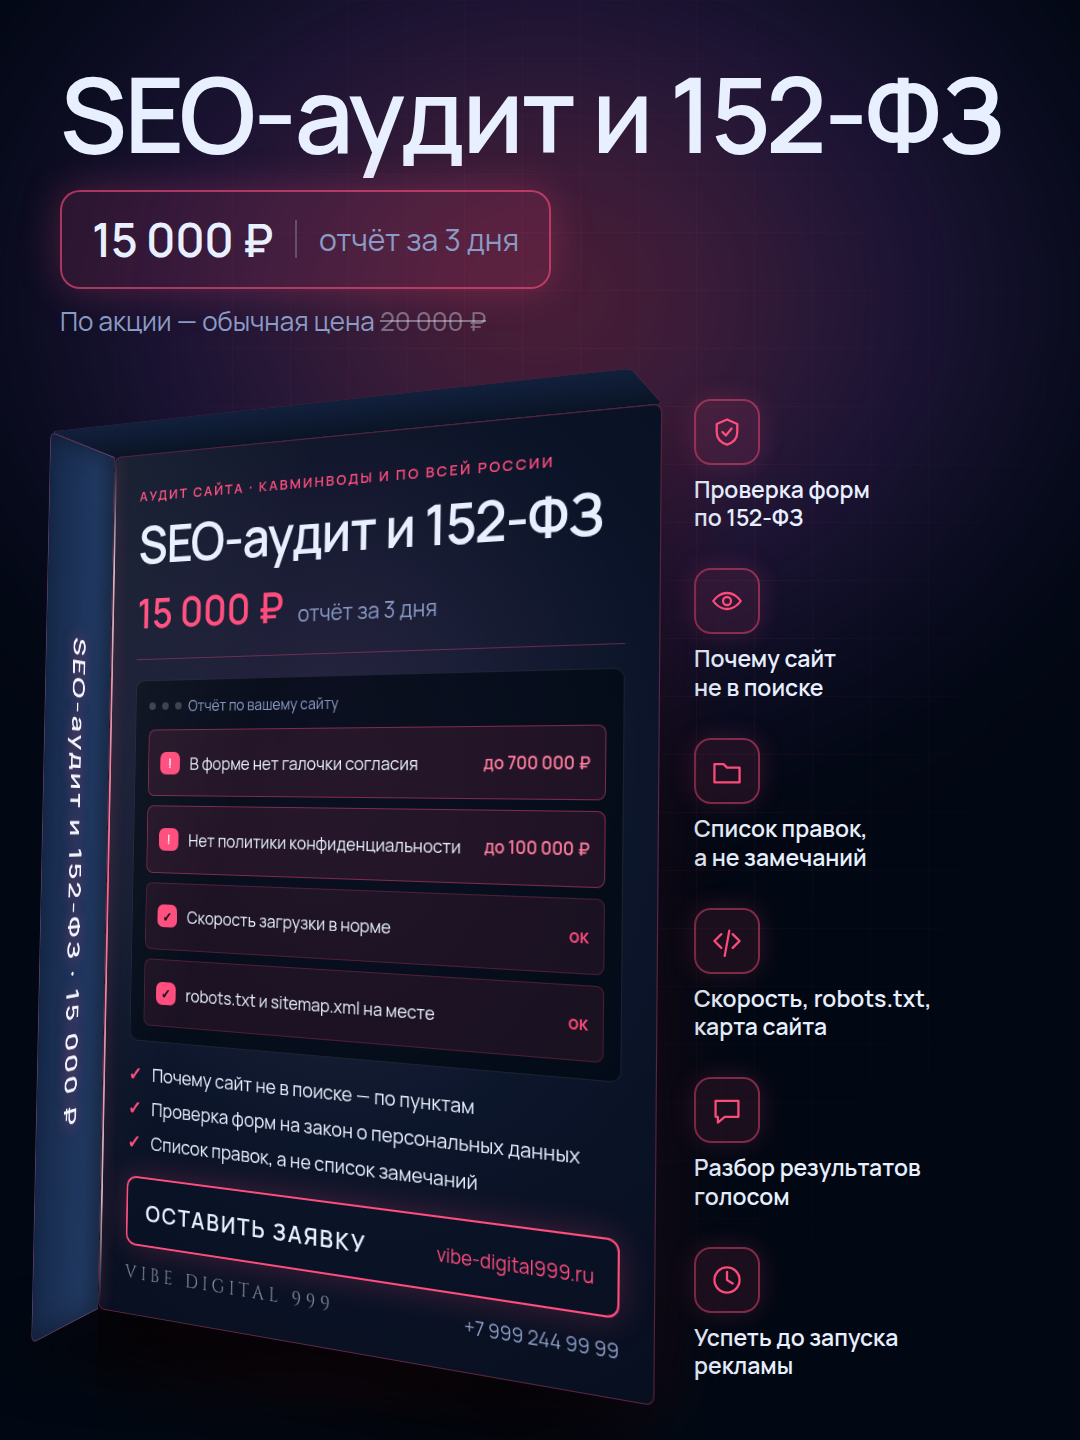
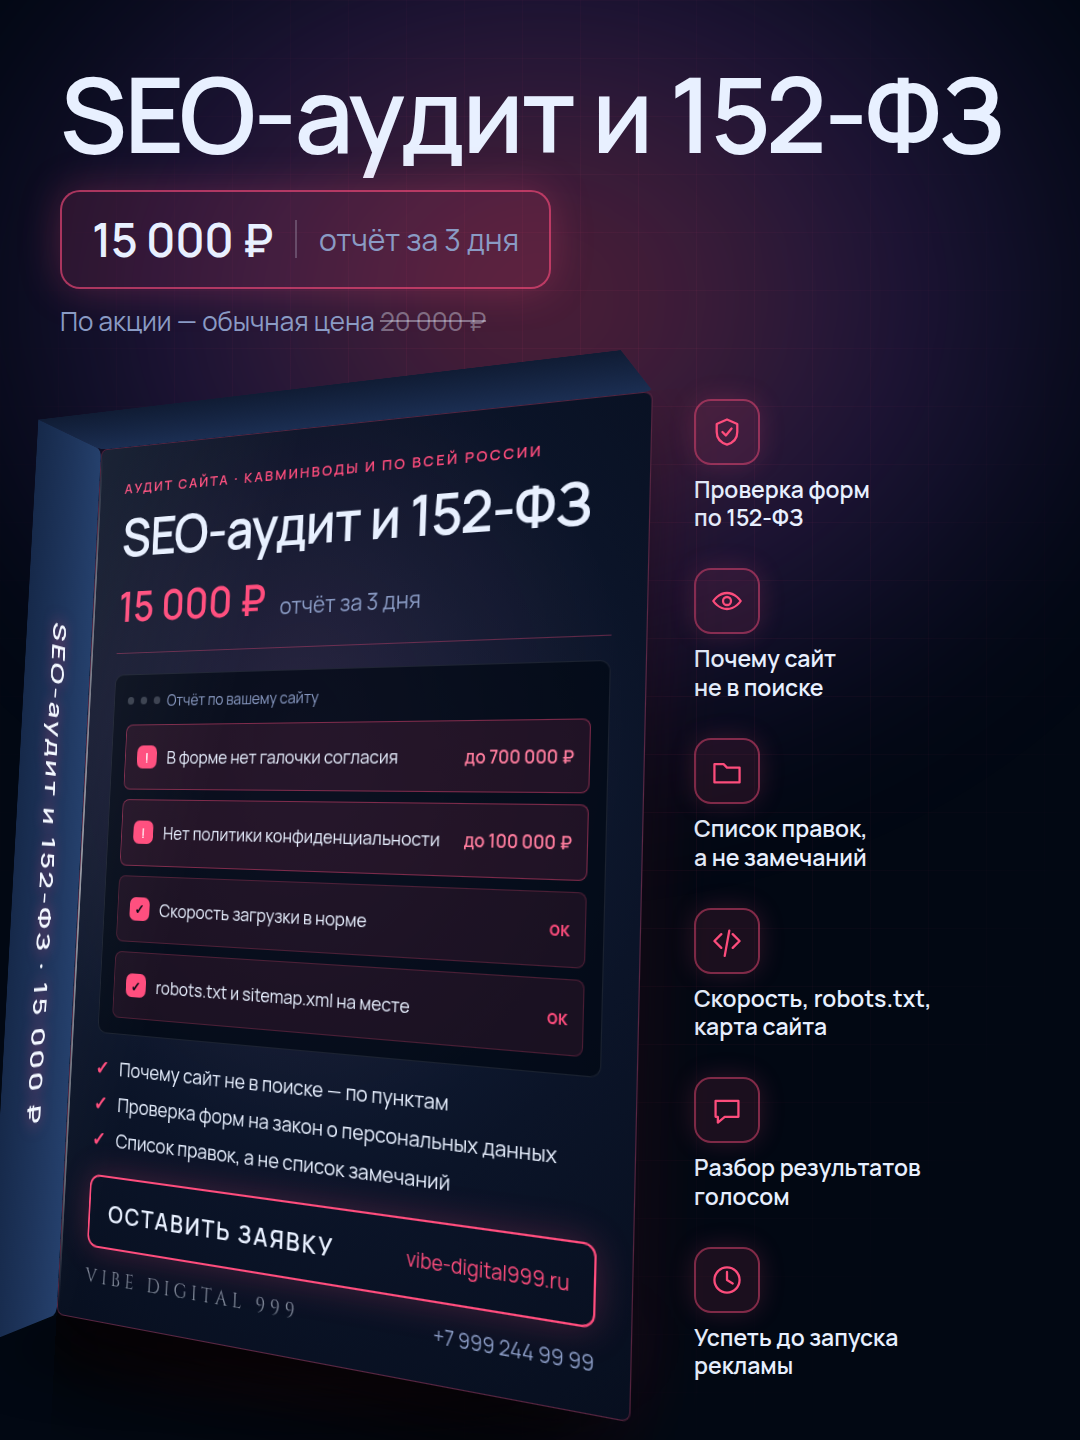
Коробка собрана как тело, а не лист с отогнутым краем
Корешок стоял снаружи лица и отгибался от него — угол выходил тупой,
предмет читался раскрытой обложкой. Теперь каждая грань выдвигается
на половину толщины и поворачивается вокруг своего ребра: лицо +55,
корешок от +55 до -55, угол ровно 90.

Убраны рамка и внутренняя тень на стыке — они давали светящуюся щель
и провал вместо монолита.

Claude-Session: https://claude.ai/code/session_01ELgwZhZjs3zH5Yv9y5TfEh

diff --git a/marketing/karty-korobka.js b/marketing/karty-korobka.js
@@ -219,7 +219,7 @@ ${fontCss}
      занимала 64·sin15° ≈ 16 пикселей, и предмет читался плоской панелью,
      а не коробкой. Владелица сказала прямо — «книга не выходит».
      Теперь 118px при 24°: боковина ≈ 48px, ребро видно. */
-  .scena{--glub:118px}
+  .scena{--glub:110px;--pol:55px}   /* --pol — половина толщины */
 
   /* align-items:stretch, а не center: коробка занимает всю высоту сцены,
      и тень внизу оказывается прямо под дном. При center коробка висела
@@ -228,7 +228,7 @@ ${fontCss}
   .box3d{position:relative;perspective:1500px;perspective-origin:50% 38%;
     /* Отступ сверху — под верхнюю грань: она торчит над лицом на всю
        глубину коробки и без запаса налезала на строчку про акцию. */
-    flex:0 0 600px;display:flex;align-items:stretch;padding:46px 0 40px}
+    flex:0 0 600px;display:flex;align-items:stretch;padding:46px 0 52px}
 
   /* Тень на поверхности. Без неё коробка висит в пустоте: объём есть,
      а стоять ей не на чем — глаз это замечает раньше, чем разбирает
@@ -244,18 +244,30 @@ ${fontCss}
       color-mix(in srgb, var(--acc) 26%, transparent) 0%, transparent 70%);
     filter:blur(34px)}
 
-  .box{position:relative;z-index:1;transform-style:preserve-3d;flex:1;display:flex;
-    transform:rotateY(-24deg) rotateX(2deg)}
+  /* СБОРКА КОРОБКИ. Три грани одного тела, а не лист с отогнутыми
+     краями. Правило простое: каждая грань выдвигается на половину
+     толщины вперёд, и только потом поворачивается вокруг своего ребра.
 
-  /* Верхняя грань — отгибается назад от верхнего ребра лица. Видна
-     узкой полосой, потому что смотрим чуть сверху (perspective-origin
-     выше середины). Именно она превращает «панель с боковиной»
-     в закрытый объём. */
-  .top{position:absolute;left:0;bottom:100%;width:100%;height:var(--glub);
-    transform-origin:bottom center;transform:rotateX(-90deg);
-    background:linear-gradient(180deg,#12203C,#0A1426);
-    border:1px solid color-mix(in srgb, var(--acc) 22%, transparent);
-    border-radius:8px 8px 2px 2px}
+     Первая версия строилась иначе: корешок стоял СНАРУЖИ лица,
+     через right:100%, и отгибался от него, как раскрытая обложка.
+     На картинке это и выглядело вывернутой наизнанку книгой —
+     угол между гранями получался тупой, а не прямой.
+
+     Теперь: лицо на +55px, корешок пристыкован к левому ребру
+     через left:0 с поворотом вокруг левого края и уходит ВГЛУБЬ,
+     от +55 до -55. Верхняя грань так же — от верхнего ребра назад.
+     Угол между гранями ровно 90°, тело замкнуто.
+
+     Осторожно: этот файл — шаблонная строка JS. Обратные кавычки
+     в комментариях к CSS закрывают её и валят разбор. */
+  .box{position:relative;z-index:1;transform-style:preserve-3d;flex:1;display:flex;
+    transform:rotateY(-25deg) rotateX(5deg)}
+
+  .top{position:absolute;left:0;top:0;width:100%;height:var(--glub);
+    transform-origin:top center;
+    transform:translateZ(var(--pol)) rotateX(90deg);
+    background:linear-gradient(180deg,#1B2E52,#101C34);
+    border-radius:8px 8px 0 0}
 
   /* Корешок — боковая грань, отогнутая назад от левого ребра лица.
 
@@ -268,8 +280,9 @@ ${fontCss}
      сдвигом — корешок ложился поперёк передней грани и перечёркивал
      цену. На глаз это видно сразу, но только если посмотреть картинку,
      а не поверить, что «CSS правильный». */
-  .spine{position:absolute;top:0;right:100%;width:var(--glub);height:100%;
-    transform-origin:right center;transform:rotateY(90deg);
+  .spine{position:absolute;top:0;left:0;width:var(--glub);height:100%;
+    transform-origin:left center;
+    transform:translateZ(var(--pol)) rotateY(-90deg);
     /* Боковина темнее лица: плоскость уходит от света, и без этого
        перепада грани сливаются в одну картонку. Слева по ребру —
        светлая полоса, это сгиб. */
@@ -277,10 +290,12 @@ ${fontCss}
        и книга сливалась в одну чёрную массу: две грани одного тона
        читаются как один плоский прямоугольник. Светлая боковина
        и тёмное лицо разводят плоскости мгновенно. */
-    background:linear-gradient(90deg,#16294A 0%,#1E355C 55%,#25406C 100%);
-    border:1px solid color-mix(in srgb, var(--acc) 30%, transparent);
+    /* Светлее лица — иначе две грани одного тона читаются как один
+       плоский прямоугольник. Ни рамки, ни внутренней тени у стыка:
+       рамка давала светящуюся щель между гранями, тень — провал.
+       Тело должно быть монолитным, стык обозначает только блик. */
+    background:linear-gradient(90deg,#25406C 0%,#1E355C 45%,#16294A 100%);
     border-radius:8px 0 0 8px;
-    box-shadow:inset -14px 0 30px rgba(0,0,0,.4);
     display:flex;align-items:center;justify-content:center}
   /* Корешок повёрнут наружу, то есть к зрителю он обращён ИЗНАНКОЙ,
      и текст на нём выходит зеркальным. Первая версия так и вышла:
@@ -289,7 +304,12 @@ ${fontCss}
      буквы встают как надо. Проверять такое можно только глазами
      на увеличенном куске картинки: на общем плане надпись мелкая
      и выглядит правдоподобно. */
-  .spine span{writing-mode:vertical-rl;text-align:center;
+  /* К зрителю корешок обращён изнанкой, поэтому текст на нём зеркалится.
+     Поворот содержимого на 180° вокруг вертикальной оси это гасит.
+     Пометка на будущее: меняешь знак поворота грани — перепроверяй
+     надпись на увеличенном куске, зеркало появляется и исчезает
+     вместе со знаком. */
+  .spine span{writing-mode:vertical-rl;text-align:center;transform:rotateY(180deg);
     font-size:30px;font-weight:800;letter-spacing:.1em;color:#F2F7FF;
     text-shadow:0 0 18px color-mix(in srgb, var(--acc) 55%, transparent)}
 
@@ -299,6 +319,7 @@ ${fontCss}
      Тень уведена влево-вниз: свет падает справа сверху, значит книга
      отбрасывает тень в противоположный угол. */
   .face{position:relative;flex:1;padding:34px 32px 30px;border-radius:8px;
+    transform:translateZ(var(--pol));
     background:
       radial-gradient(ellipse 90% 70% at 42% 34%,
         color-mix(in srgb, var(--acc) 9%, transparent) 0%,
@@ -314,15 +335,13 @@ ${fontCss}
   /* БЛИК НА СГИБЕ. Тонкая светлая полоса ровно по стыку лица и корешка.
      Приём стоит две строчки, а объём даёт сразу: глаз читает ребро
      как физический сгиб, поймавший свет. */
-  .face::after{content:'';position:absolute;top:2px;bottom:2px;left:0;width:2px;
-    border-radius:2px;
+  .face::after{content:'';position:absolute;top:6px;bottom:6px;left:0;width:2px;
     background:linear-gradient(180deg,
       transparent 0%,
-      rgba(255,255,255,.72) 12%,
-      color-mix(in srgb, var(--acc) 90%, white) 50%,
-      rgba(255,255,255,.72) 88%,
+      rgba(255,255,255,.34) 14%,
+      rgba(255,255,255,.55) 50%,
+      rgba(255,255,255,.34) 86%,
       transparent 100%);
-    box-shadow:0 0 16px color-mix(in srgb, var(--acc) 70%, transparent);
     pointer-events:none}
 
   /* Мягкая засветка от верхнего левого угла — след того же источника. */

diff --git a/TASKS.md b/TASKS.md
@@ -3127,3 +3127,47 @@ GreenSock). Проверено открытием страниц, а не пои
 - [ ] Посмотреть обе карточки и сказать, что ещё не так: угол, толщина,
       яркость корешка, сила тени.
 - [ ] Загрузить в Яндекс Бизнес после того, как понравятся.
+
+### 13 августа, дополнение — книга была вывернута наизнанку
+
+Владелица: «Корешок не должен раскрываться наружу как открытая обложка.
+Книга — это закрытая твёрдая коробка». Диагноз точный.
+
+**Что было не так.** Корешок стоял СНАРУЖИ лица — через `right:100%` —
+и отгибался от него. То есть собиралась не коробка, а лист с отогнутым
+краем: угол между гранями получался тупой, и предмет читался раскрытой
+обложкой. Лицо при этом лежало на нуле, грани не сходились в тело.
+
+**Как собрано теперь** — по схеме владелицы, правило одно на все грани:
+каждая выдвигается на половину толщины вперёд и только потом
+поворачивается вокруг своего ребра.
+
+- лицо — `translateZ(55px)`;
+- корешок — `left:0`, ширина 110px, `transform-origin:left`,
+  `translateZ(55px) rotateY(-90deg)`: уходит вглубь от +55 до −55;
+- верхняя грань — так же от верхнего ребра назад;
+- контейнер — `rotateY(-25deg) rotateX(5deg)`, перспектива 1500px.
+
+Угол между гранями ровно 90°, тело замкнуто.
+
+**Сделано:**
+
+- [x] `      ` Пересобраны трансформации всех трёх граней по схеме выше.
+- [x] `      ` **Убраны рамка и внутренняя тень на стыке.** Рамка давала
+      светящуюся щель между гранями, тень — провал. Стык теперь
+      обозначает только тонкий полупрозрачный блик, тело монолитное.
+- [x] `      ` Блик на сгибе приглушён до белой полупрозрачной полосы:
+      прежний неоновый как раз и читался щелью, а не ребром.
+- [x] `      ` Зеркало на корешке погашено заново. **Оно появляется
+      и исчезает вместе со знаком поворота грани** — сменил знак,
+      перепроверь надпись на увеличенном куске. Записано прямо
+      в комментарии к коду.
+
+**Отдельно, для следующего чата:** файл генератора — одна большая
+шаблонная строка JS. Обратные кавычки в комментариях к CSS закрывают
+её и валят разбор. Наступил на это здесь же, предупреждение оставлено
+в коде.
+
+**Ждём от Гульнары:**
+
+- [ ] Посмотреть обе карточки: собралась ли коробка.
